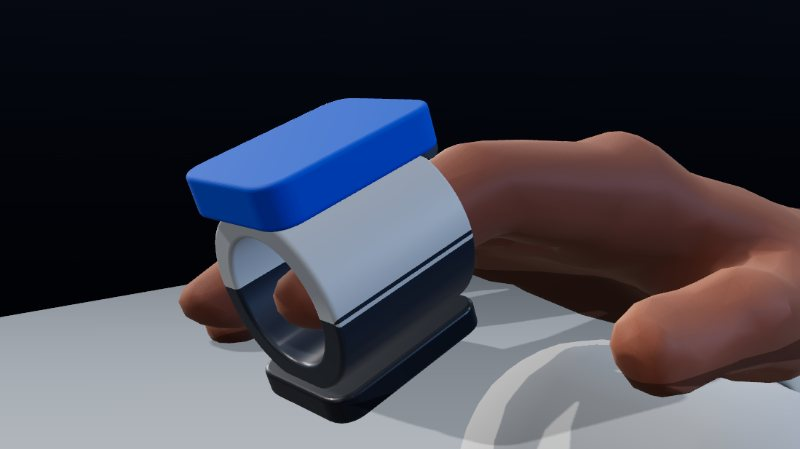
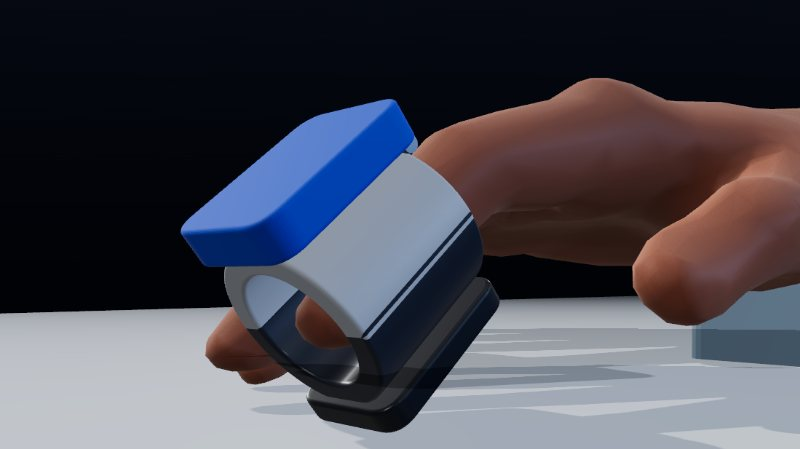
Pulsioxímetro: antebrazo apoyado en un cojín, sin objetos flotando

diff --git a/es/demos/app/demos/pulsioximetro.js b/es/demos/app/demos/pulsioximetro.js
@@ -112,13 +112,14 @@ createDemo({
     hand.position.set(1.4 - db.max.x, .02 - (db.min.y + db.max.y) / 2, -(db.min.z + db.max.z) / 2);
     hand.updateMatrixWorld(true);
     skin.visible = false; // el dedo esculpido queda como respaldo oculto
+    let deskM = null;
     // antebrazo con manga de camisa ajustada, mesa a su altura y almohadilla bajo la palma
     { const ag = AP.geo.arm; ag.computeBoundingBox(); const top = ag.boundingBox.max.y, wristY = (835 - CEN[2]) / 20;
       hand.add(fitSleeve(ag, V(0, 0, 0), V(0, 1, 0), wristY + 1.6, top - .05, { grow: .22, hem: .28, extra: 5, color: '#8aa1b9', steps: 12 }));
       // inclinar todo el conjunto para que el antebrazo descanse horizontal (mano relajada, dedo un poco hacia abajo)
       rig.updateMatrixWorld(true); const pa0 = ag.attributes.position, cenY = (y0, y1) => { const c0 = V(0, 0, 0); let n = 0; for (let i = 0; i < pa0.count; i++) { const y = pa0.getY(i); if (y > y0 && y < y1) { c0.x += pa0.getX(i); c0.y += y; c0.z += pa0.getZ(i); n++; } } return hand.localToWorld(c0.multiplyScalar(1 / Math.max(1, n))); };
       const dir = cenY(top - 3, top - 1).sub(cenY(wristY + .5, wristY + 2.5));
-      let rz = Math.PI - Math.atan2(dir.y, dir.x); if (rz > Math.PI) rz -= Math.PI * 2; rz *= .5; rig.rotation.z = rz;
+      let rz = Math.PI - Math.atan2(dir.y, dir.x); if (rz > Math.PI) rz -= Math.PI * 2; rig.rotation.z = rz;
       // las cámaras de los capítulos giran igual, para conservar el encuadre del oxímetro
       const rot = (a2) => { const v = V(...a2).applyAxisAngle(V(0, 0, 1), rz); return v.toArray(); };
       for (const ch of chapters) if (ch.cam) ch.cam = { ...ch.cam, pos: rot(ch.cam.pos), target: rot(ch.cam.target) };
@@ -126,9 +127,7 @@ createDemo({
       const pa = ag.attributes.position, tv = V(0, 0, 0), palm = new THREE.Box3(); for (let i = 0; i < pa.count; i++) { tv.fromBufferAttribute(pa, i); if (tv.y < wristY - .4 && tv.y > wristY - 4.5) palm.expandByPoint(hand.localToWorld(tv.clone())); }
       const deskY = hb.min.y - .02; floorM.position.y = deskY - 3;
       const desk = new THREE.Mesh(new THREE.BoxGeometry(80, .6, 50), new THREE.MeshPhysicalMaterial({ color: '#b9c3cb', roughness: .88, sheen: .3, sheenColor: new THREE.Color('#eef2f5') })); desk.position.set(-10, deskY - .3, 0); desk.receiveShadow = true; scene.add(desk);
-      const ch = Math.max(.2, palm.min.y - deskY - .02), cw = Math.max(2, palm.max.x - palm.min.x) + 1.2, cd = Math.max(2, palm.max.z - palm.min.z) + 1.2;
-      const cushion = new THREE.Mesh(new THREE.CapsuleGeometry(ch / 2, Math.max(.1, cd - ch), 8, 24), new THREE.MeshPhysicalMaterial({ color: '#dfe5ea', roughness: .9, sheen: .6, sheenColor: new THREE.Color('#ffffff') }));
-      cushion.rotation.x = Math.PI / 2; cushion.position.set((palm.min.x + palm.max.x) / 2, deskY + ch / 2, (palm.min.z + palm.max.z) / 2); cushion.castShadow = cushion.receiveShadow = true; scene.add(cushion); }
+      deskM = desk; }
     // uña sobre el dorso de la falange distal
     const db2 = new THREE.Box3().setFromObject(bones.children[2]);
     [nail, nailPolish].forEach((n) => { n.position.set(db2.max.x - .3, db2.max.y + .1, (db2.min.z + db2.max.z) / 2); n.scale.set(.5, .07, .38); n.rotation.z = -.05; });
@@ -188,6 +187,15 @@ createDemo({
 
     const artColor = new THREE.Color(); const cOx = new THREE.Color('#ff2b45'), cDe = new THREE.Color('#6a2bd9');
     let scrT = 0, alt = 0, estSm = 97, rSm = .5;
+    // la mesa no debe atravesar el oxímetro (el dedo queda algo flexionado hacia abajo)
+    { rig.updateMatrixWorld(true); const cb = new THREE.Box3().setFromObject(clip, true), top = deskM.position.y + .3; if (cb.min.y < top) { const dy = top - cb.min.y + .02; deskM.position.y -= dy; floorM.position.y -= dy; } }
+    // almohadilla de apoyo bajo el antebrazo: su cara superior sigue la parte de abajo del brazo real
+    { const ag = AP.geo.arm, pa = ag.attributes.position, tv = V(0, 0, 0), top = ag.boundingBox.max.y, wristY = (835 - CEN[2]) / 20, under = (y0, y1) => { let lo = null; for (let i = 0; i < pa.count; i++) { const y = pa.getY(i); if (y < y0 || y > y1) continue; const w = hand.localToWorld(tv.fromBufferAttribute(pa, i).clone()); if (!lo || w.y < lo.y) lo = w; } return lo; };
+      const p0 = under(wristY + .5, wristY + 2), p1 = under(top - 3, top - .5), deskTop = deskM.position.y + .3;
+      if (p0 && p1) { const len = p0.distanceTo(p1) + 4, ang = Math.atan2(p1.y - p0.y, p1.x - p0.x), mid = p0.clone().lerp(p1, .5), hgt = Math.max(.4, mid.y - deskTop) + 1.2;
+        const sh = new THREE.Shape(), w = len, h = hgt, r = .5; sh.moveTo(-w / 2 + r, -h); sh.lineTo(w / 2 - r, -h); sh.quadraticCurveTo(w / 2, -h, w / 2, -h + r); sh.lineTo(w / 2, -r); sh.quadraticCurveTo(w / 2, 0, w / 2 - r, 0); sh.lineTo(-w / 2 + r, 0); sh.quadraticCurveTo(-w / 2, 0, -w / 2, -r); sh.lineTo(-w / 2, -h + r); sh.quadraticCurveTo(-w / 2, -h, -w / 2 + r, -h);
+        const g = new THREE.ExtrudeGeometry(sh, { depth: 4.2, bevelEnabled: true, bevelThickness: .25, bevelSize: .25, bevelSegments: 4, curveSegments: 8 }); g.translate(0, 0, -2.1);
+        const pad = new THREE.Mesh(g, new THREE.MeshPhysicalMaterial({ color: '#7d9db8', roughness: .8, sheen: .5, sheenColor: new THREE.Color('#c9dbea') })); pad.position.set(mid.x, mid.y - .05, mid.z); pad.rotation.z = ang + (p1.x < p0.x ? Math.PI : 0); pad.castShadow = pad.receiveShadow = true; scene.add(pad); } }
     c.onFrame((dt, rdt) => {
       S.ph = (S.ph + dt * S.hr / 60) % 1;
       const p = pleth(S.ph);
